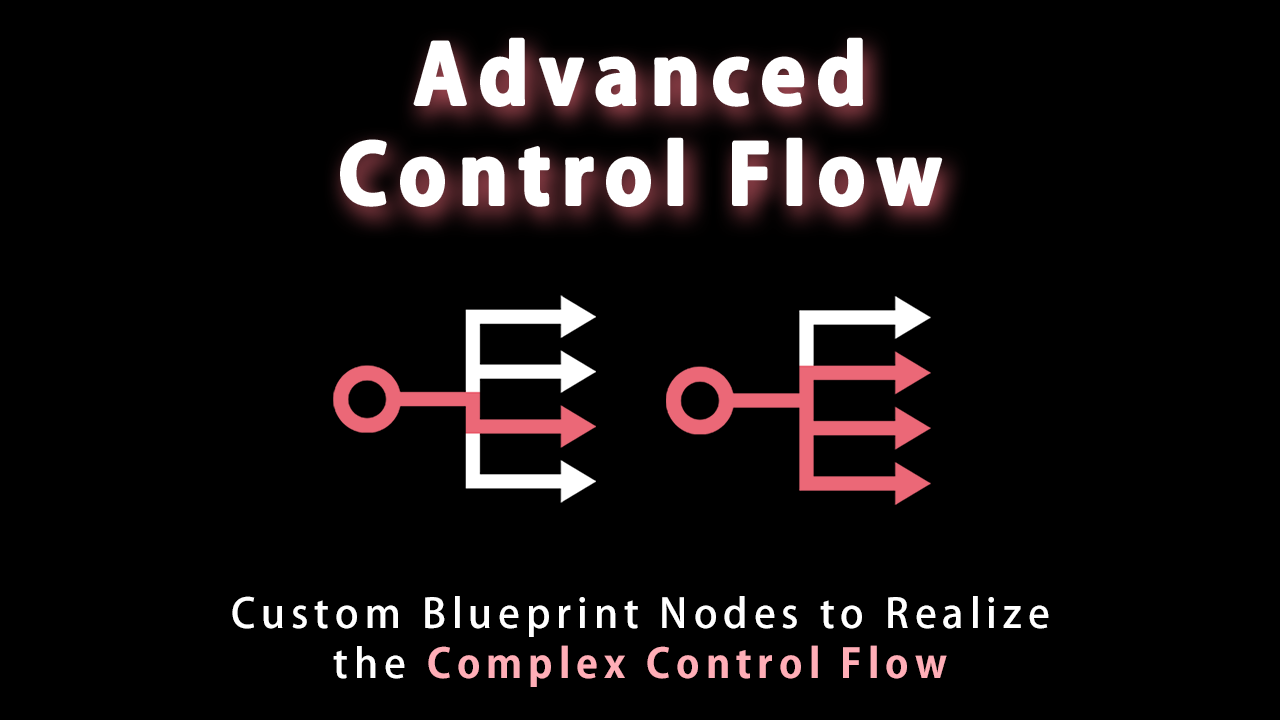
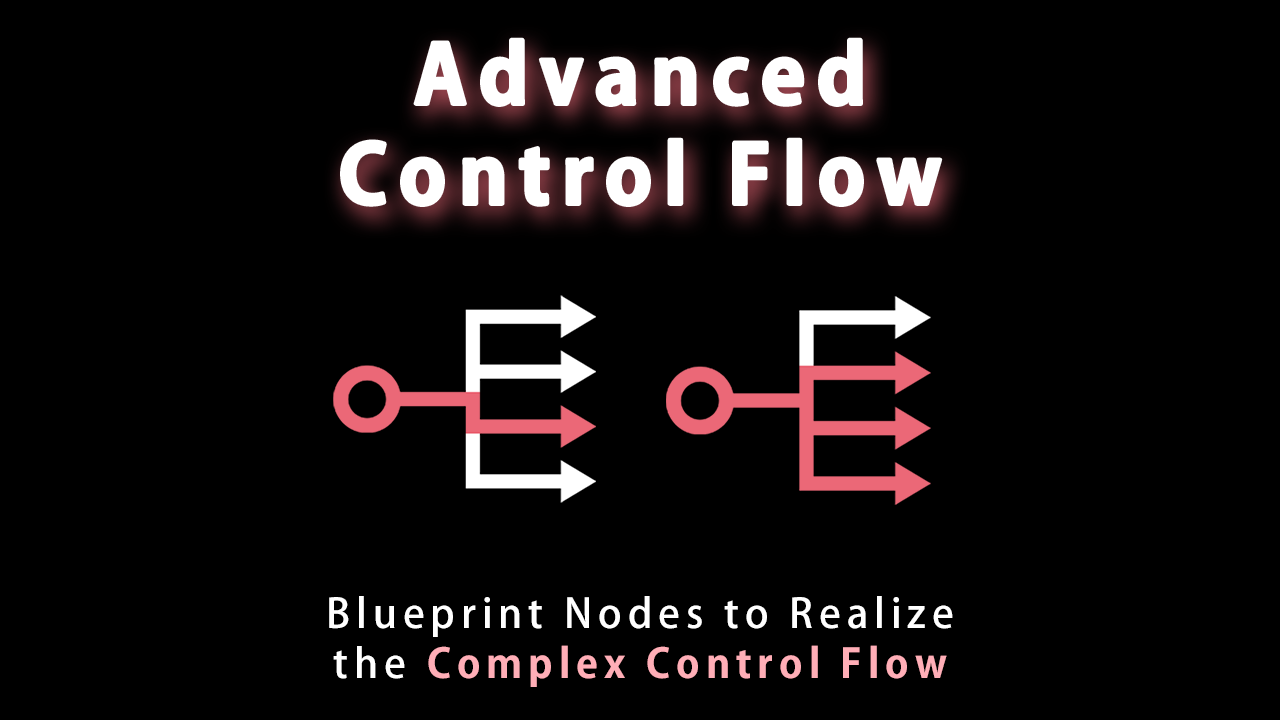
Address review comment

Changed region(s): [[0.1562, 0.825, 0.8125, 0.8861]]

diff --git a/README.md b/README.md
@@ -1,6 +1,6 @@
 # Unreal Engine Plugin: Advanced Control Flow
 
-Advanced Control Flow is a Unreal Engine plugin which adds custom Blueprint nodes to realize the complex control flow.
+Advanced Control Flow is a Unreal Engine plugin which adds Blueprint nodes to realize the complex control flow.
 
 The typical use case of this plugin is when you try to realize the if-elseif-else statement.  
 To realize if-elseif-else statement on the vanilla Unreal Engine, you need to stack the multiple branch nodes to check multiple conditions.  
@@ -13,7 +13,7 @@ By using this plugin, you can realize this case with only one MultiBranch node.
 * MultiBranch
   * Realize if-elseif-else statement (multiple conditional branches).
 * Conditional Sequence
-  * Execute all relevant execution pins if the conditional pin is true.
+  * Execute each relevant execution pins if each conditional pin is true.
 
 ## Supported Environment
 
@@ -46,7 +46,7 @@ You can also discuss about this plugin at [Discord](https://discord.gg/Tg9A5JxR)
 ### Owner
 
 This project is owned by the members of [Colory Games](https://colory-games.net/).  
-The main mainter of this project is as follows.
+The maintainer of this project is as follows.
 
 |Name|Contact|
 |---|---|

diff --git a/docs/tutorial.md b/docs/tutorial.md
@@ -35,7 +35,7 @@ if (Condition_0) {
 
 ## Conditional Sequence
 
-MultiBranch node execute all relevant execution pins if the conditional pin is true.  
+Conditional Sequence node execute each relevant execution pins if each conditional pin is true.  
 Comparision to the implementation on the vanilla Unreal Engine is as follows.
 
 ![Vanila vs Conditional Sequence](images/tutorial/vanilla_vs_conditional-sequence.png)

diff --git a/docs/installation.md b/docs/installation.md
@@ -14,7 +14,7 @@ Generate project files (for example with right mouse click on the .uproject file
 
 #### 4. Build
 
-Build the project.
+Build the project in Visual Studio.
 
 #### 5. Launch Unreal Engine editor and enable the plugin
 
